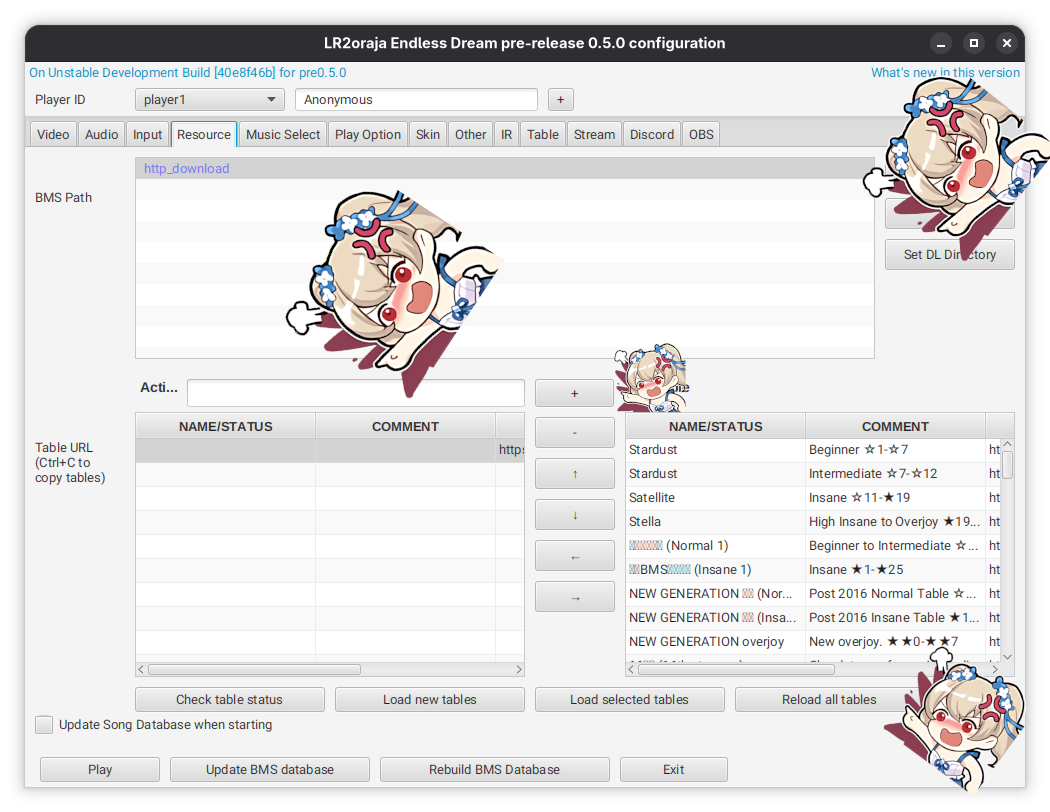
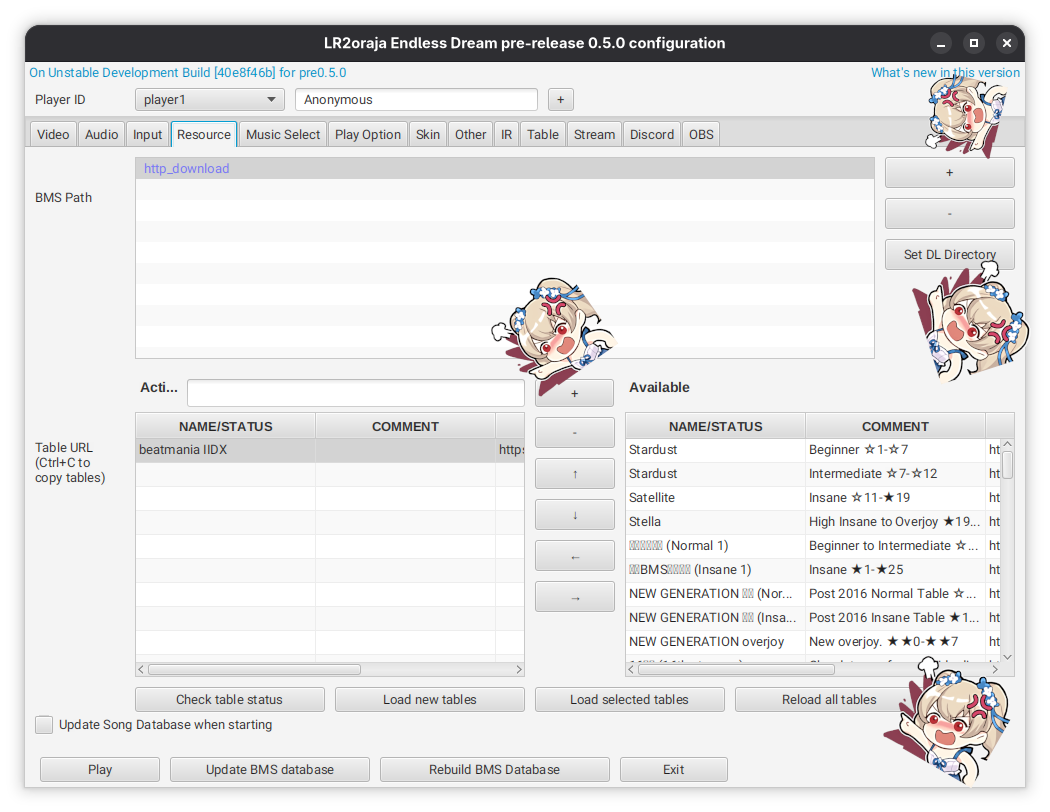
update site

diff --git a/index.html b/index.html
@@ -260,11 +260,12 @@
         <h3>Resource Settings</h3>
         <ol>
             <li>Next to <strong>BMS Path</strong> set the downloads folder to somewhere that you won't mind filling with a lot of data.</li>
+            <li>If you downloaded the songs you need to extract them and use the plus icon to point it to the directory where all of the songs are stored. <strong>Unlike other games BMS songs are stored in standard directories.</strong> The game will scan these directories, which is why having a Japanese locale is important.</li>  
         </ol>
         
         <div class="important-notice">
             <h4>IMPORTANT INFORMATION ON TABLES</h4>
-            <h5>Make sure you load anons table from the post.</h5>
+            <h5>Make sure you load anons table from <a href="https://arch.b4k.dev/vm/thread/2714849/#2731418" target="_blank">this post.</a></h5>
             <ol>
                 <li>Remove all default tables by selecting all of them on the left side and using either the right arrow or the minus. The former sends them to the deactivated tables and won't load in-game while the latter will delete them entirely.</li>
                 <li>Paste the URL that you got from the post into the <strong>Acti...</strong> area and press the plus icon.</li>
@@ -286,7 +287,7 @@
             <li><strong>Enable Lift</strong> does the same thing as Lanecover except it covers the bottom of the screen while bringing the judgment line up.</li>
         </ol>
         <h4>Here's what it looks like when both of them are enabled in-game:</h4>
-        <img class="instruction-img" src="lanecover-lift.png" alt="In-game lanecover and lift layout showcase">
+        <img class="instruction-img" src="lanecover-lift.png">
     </div>
     
     <!-- TAB 5 -->
@@ -310,7 +311,7 @@
         <h3>Other</h3>
         <ol>
             <li>Follow anon's riddle again and you'll find a download URL.</li>
-            <li>Make sure that <strong>Enable automatic download of BMS by HTTP</strong> is enabled and <strong>Ginger</strong> is selected and the <strong>Override Http Server URL</strong> is anon's server.</li>
+            <li>Make sure that <strong>Enable automatic download of BMS by HTTP</strong> is enabled and <strong>Ginger</strong> is selected and the <strong>Override Http Server URL</strong> is <a href="https://arch.b4k.dev/vm/thread/2714849/#2731418" target="_blank">anon's server.</a></li>
         </ol>
         <img class="instruction-img" src="part8.png" alt="HTTP auto download config settings">
     </div>
